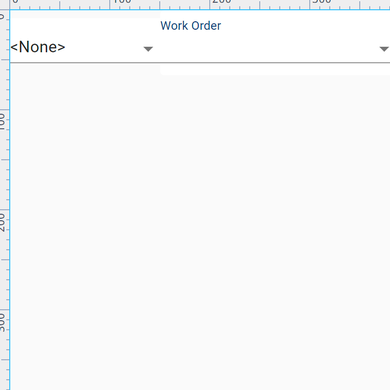
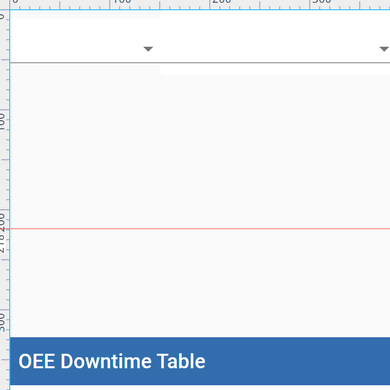
added cell states & DT table

diff --git a/ignition-data/frontend/projects/DG_OEE/ignition/script-python/MES/code.py b/ignition-data/frontend/projects/DG_OEE/ignition/script-python/MES/code.py
@@ -1,7 +1,30 @@
-"""Return a list of MES objects of type 'Line' that are not inactive."""
+"""
+MES Helper Functions
+"""
+#Return a list of MES objects of type 'Line' that are not inactive.
 def get_line_list():
 	obj_filter = system.mes.object.filter.createFilter()
 	obj_filter.setMESObjectTypeName('Line')
 	obj_filter.setExcludeInactiveEquipment(True)
 	line_list = system.mes.searchMESObjects(obj_filter)
 	return line_list 
+
+
+#Return a List of Cell Names with their States for a given Line
+def get_cell_states(line):
+	obj_filter = system.mes.object.filter.createFilter()
+	obj_filter.setMESObjectTypeName('LineCell')
+	line_path = fr'Design Group\Sacramento\Information Solutions\{line}'
+	obj_filter.setPrimaryMESObjectPath(line_path)
+	
+	objs = system.mes.searchMESObjects(obj_filter)
+
+	cell_states = []
+	for obj in objs:
+
+		eq_path = obj.getMESObject().getEquipmentPath()
+	
+		cell_state = system.mes.getCurrentEquipmentStates(eq_path)	
+		cell_states.append({'cell_name':obj.getName(),'cell_state':cell_state.values()[0]})
+		
+	return cell_states
